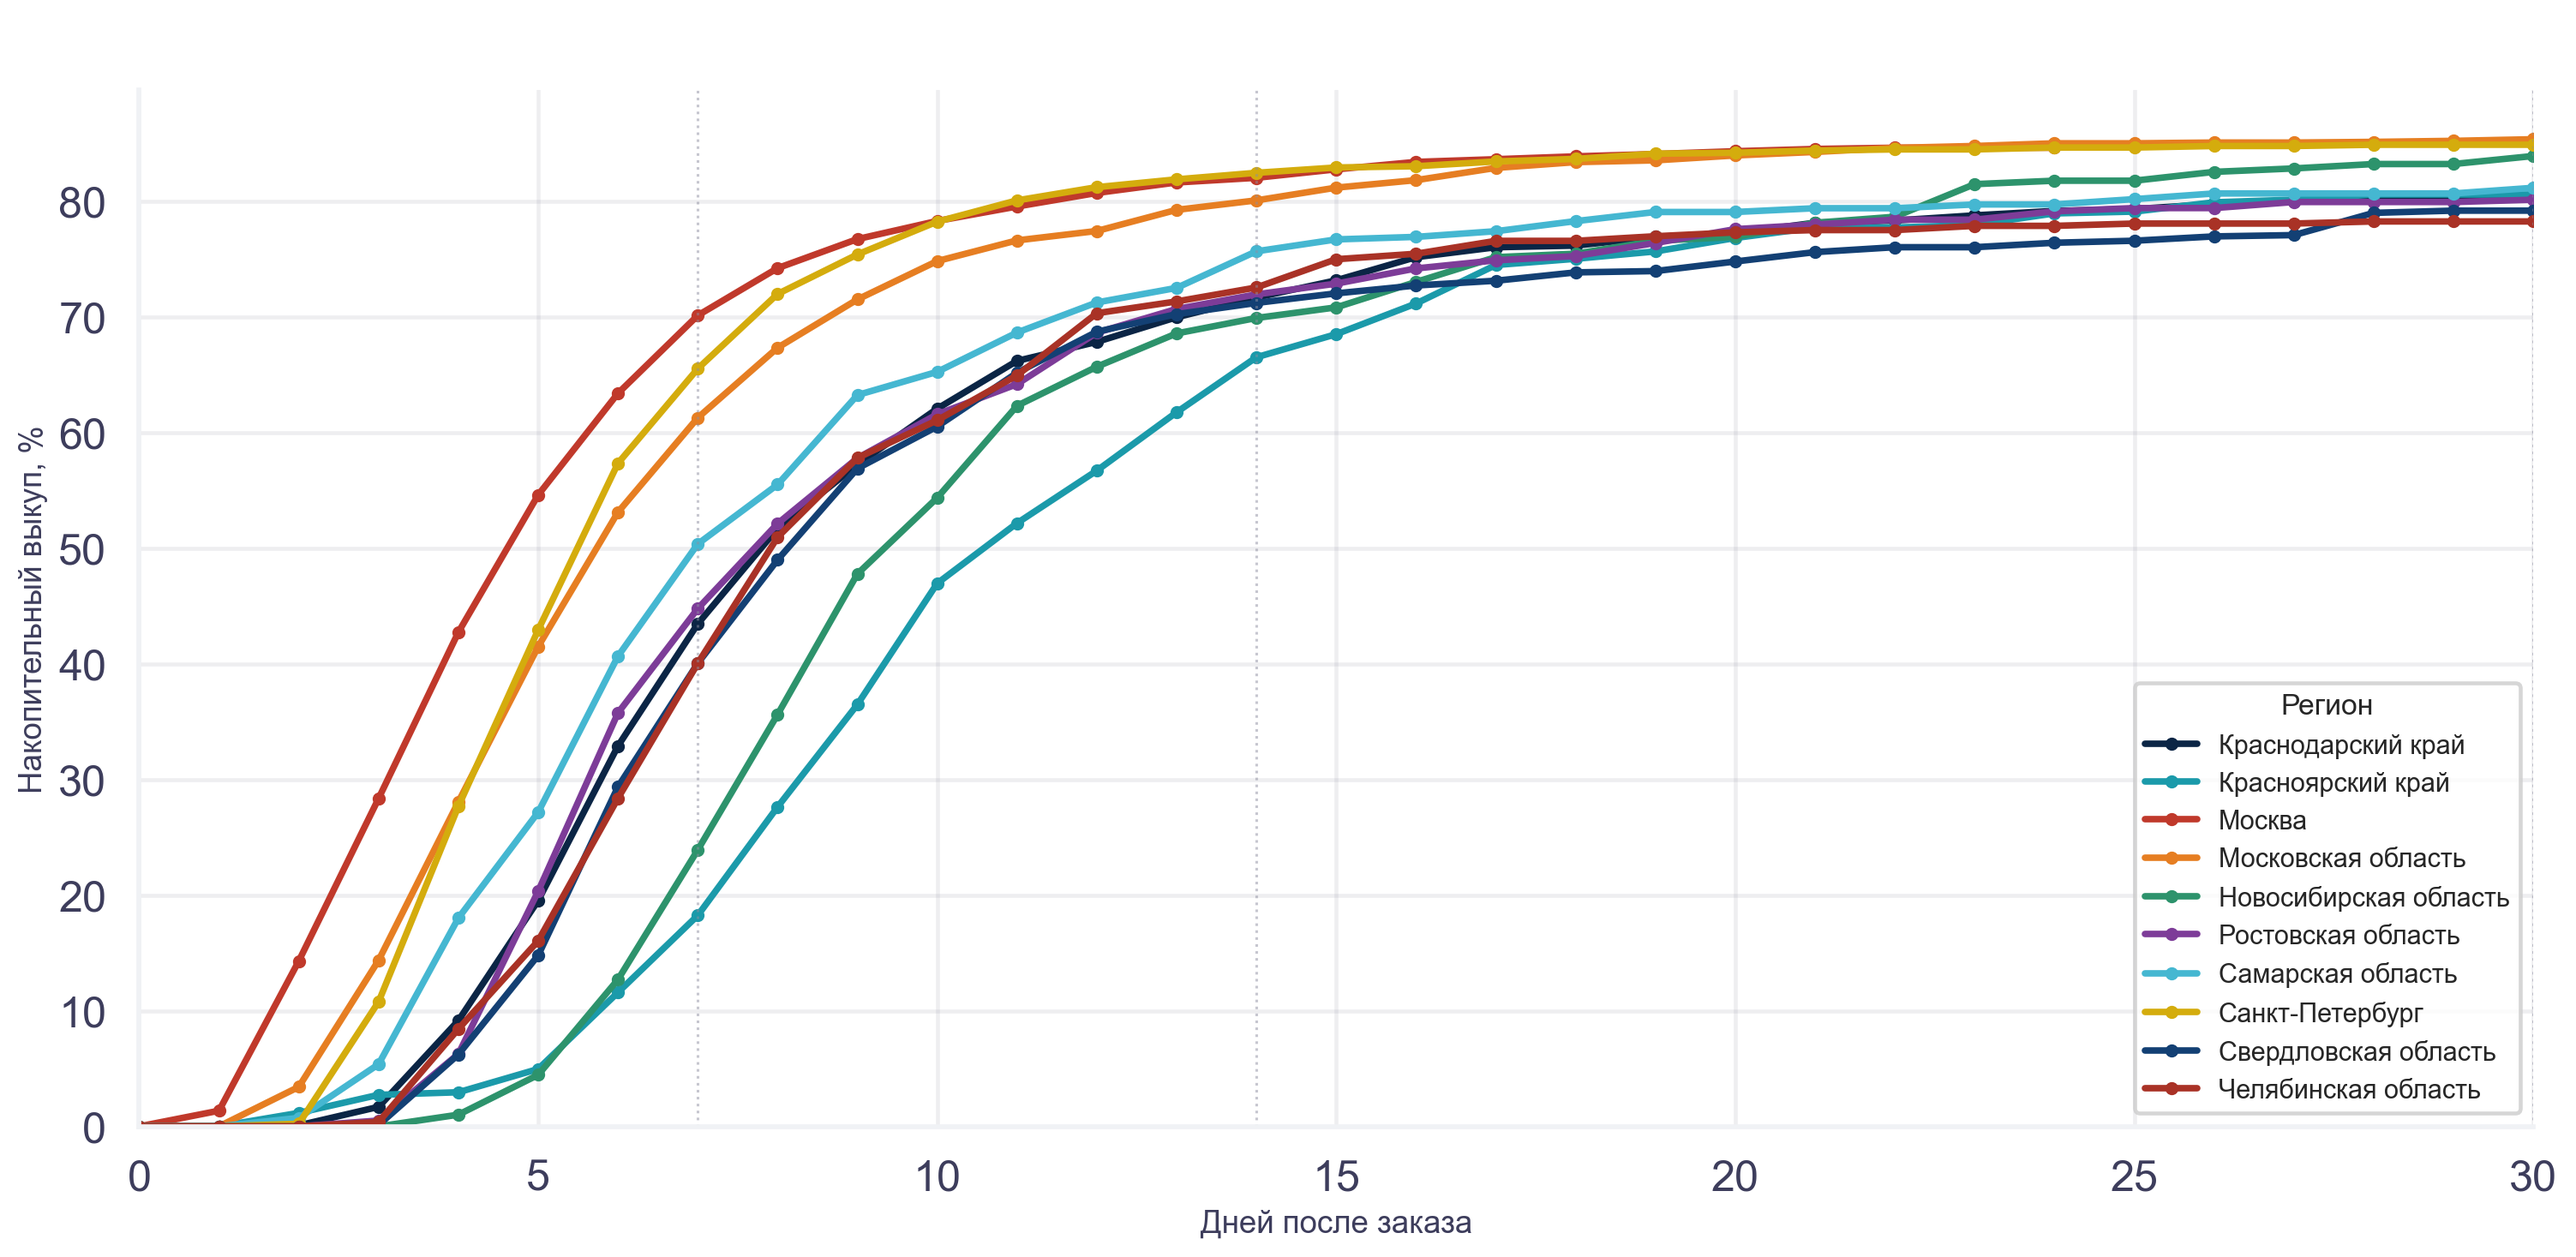
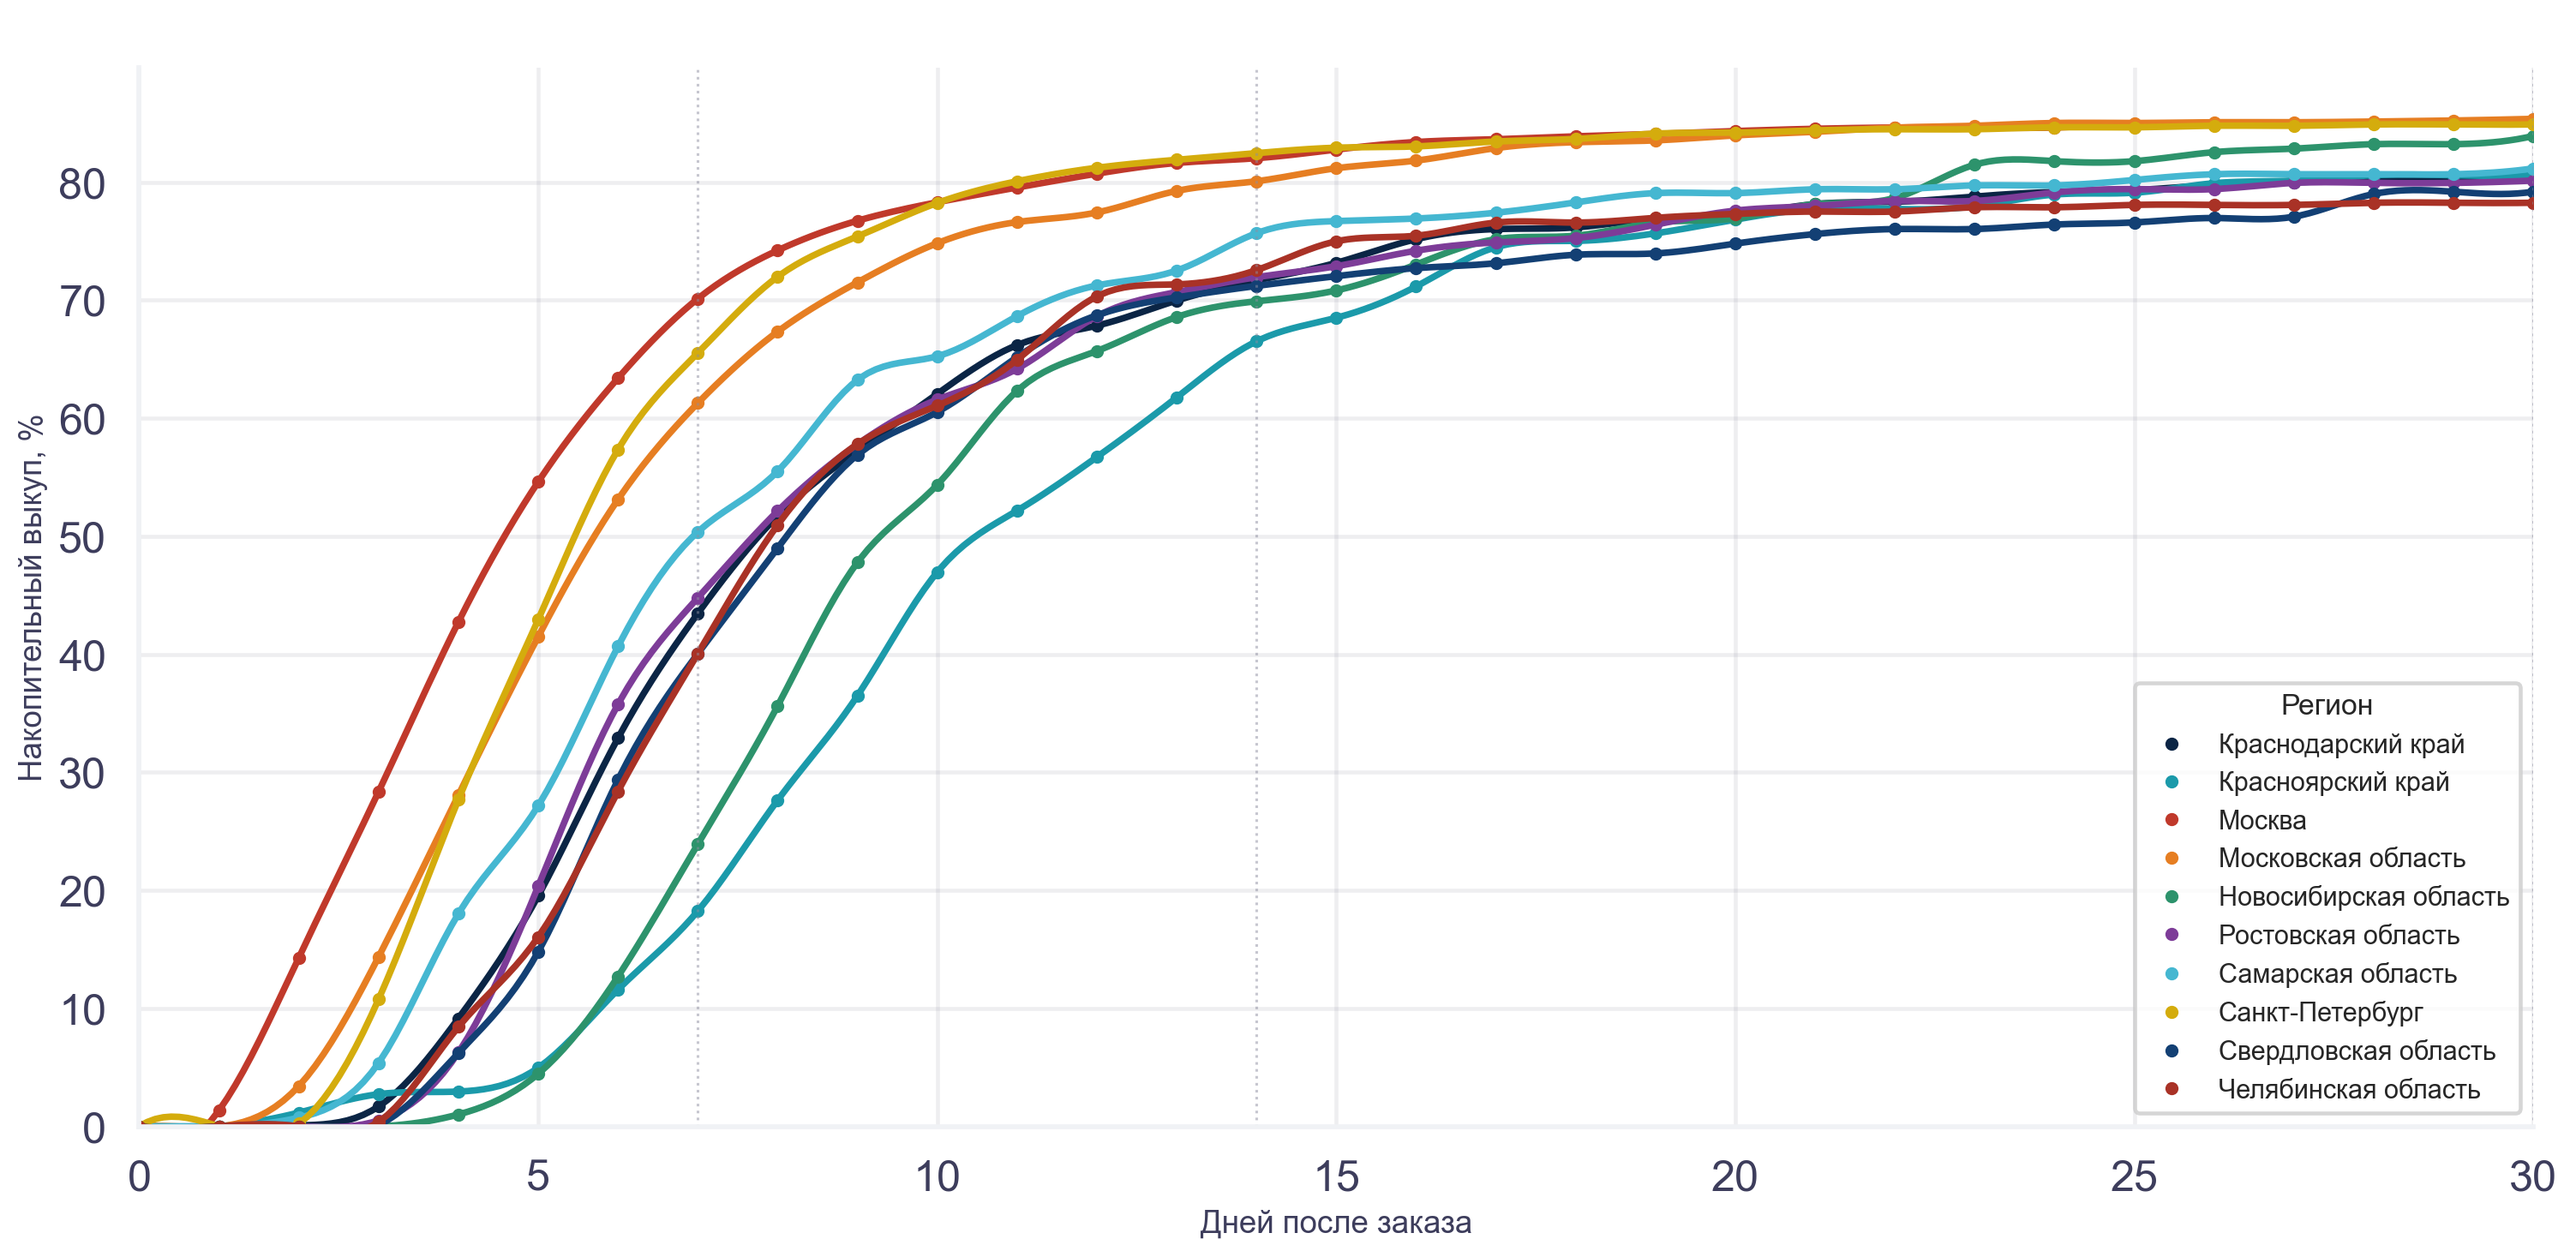
prepare charts and script to frontend

diff --git a/Cohort/cohort_buyout_analysis.py b/Cohort/cohort_buyout_analysis.py
@@ -10,6 +10,7 @@ import matplotlib.colors as mcolors
 import numpy as np
 import pandas as pd
 import seaborn as sns
+from scipy.interpolate import make_interp_spline
 
 # Палитра Артрейд
 # ──────────────────────────────────────────────
@@ -582,23 +583,54 @@ def plot_regional_daily_comparison(region_series: dict[str, pd.Series], output_p
     n = len(region_series)
     colors = REGIONAL_COLORS[:n]
 
+    # Делаем вспомогательную функцию для создания более плавных линий на графике накопительного выкупа по регионам
+    def smooth_curve(y, n_points=300, k=3):
+        y = np.asarray(y, dtype=float)
+        x = np.arange(len(y), dtype=float)
+        if len(y) < 4:
+            return x, y
+        k = min(k, len(y) - 1)
+        spline = make_interp_spline(x, y, k=k)
+        x_new = np.linspace(x.min(), x.max(), n_points)
+        y_new = spline(x_new)
+        return x_new, y_new
+
     fig, ax = plt.subplots(figsize=(14, 7))
 
     for i, (region, curve) in enumerate(sorted(region_series.items())):
         curve_clean = curve.dropna().sort_index()
-        ax.plot(
-            curve_clean.index, curve_clean.values * 100,
-            marker="o", markersize=4, linewidth=2.5,
-            label=region, color=colors[i]
-        )
+        y = curve_clean.values * 100
+        x = np.arange(len(curve_clean))
+
+        if len(y) >= 4:
+            x_smooth, y_smooth = smooth_curve(y)
+            ax.plot(
+                x_smooth, y_smooth,
+                linewidth=2.5,
+                color=colors[i]
+            )
+            ax.plot(
+                x, y,
+                linestyle="none",
+                marker="o",
+                markersize=4,
+                color=colors[i],
+                label=region
+            )
+        else:
+            ax.plot(
+                x, y,
+                marker="o",
+                markersize=4,
+                linewidth=2.5,
+                color=colors[i],
+                label=region
+            )
 
     for day in KEY_DAYS:
         ax.axvline(day, color=GRAY, linestyle=":", linewidth=1, alpha=0.5)
 
-    ax.set_title(
-        "Накопительный выкуп: сравнение региональных когорт",
-        fontsize=16, fontweight="bold", color=DARK, pad=16
-    )
+    ax.set_title(" ")
     ax.set_xlabel("Дней после заказа", fontsize=12, color=TEXT)
     ax.set_ylabel("Накопительный выкуп, %", fontsize=12, color=TEXT)
     ax.set_xlim(0, MAX_DAY)
@@ -994,7 +1026,7 @@ def main() -> None:
 
     # Создаем региональные графики
     if region_avg_curves:
-        plot_regional_daily_comparison(region_avg_curves, CHARTS_DIR / "regional_curves_comparison.png")
+        plot_regional_daily_comparison(region_avg_curves, CHARTS_DIR / "regional_curves_comparison_without_title.png")
         plot_regional_final_buyout_comparison(region_summaries, CHARTS_DIR / "regional_final_buyout_comparison.png")
         plot_regional_heatmap(region_pivots, region_summaries, CHARTS_DIR / "regional_heatmap_by_days.png")
 
